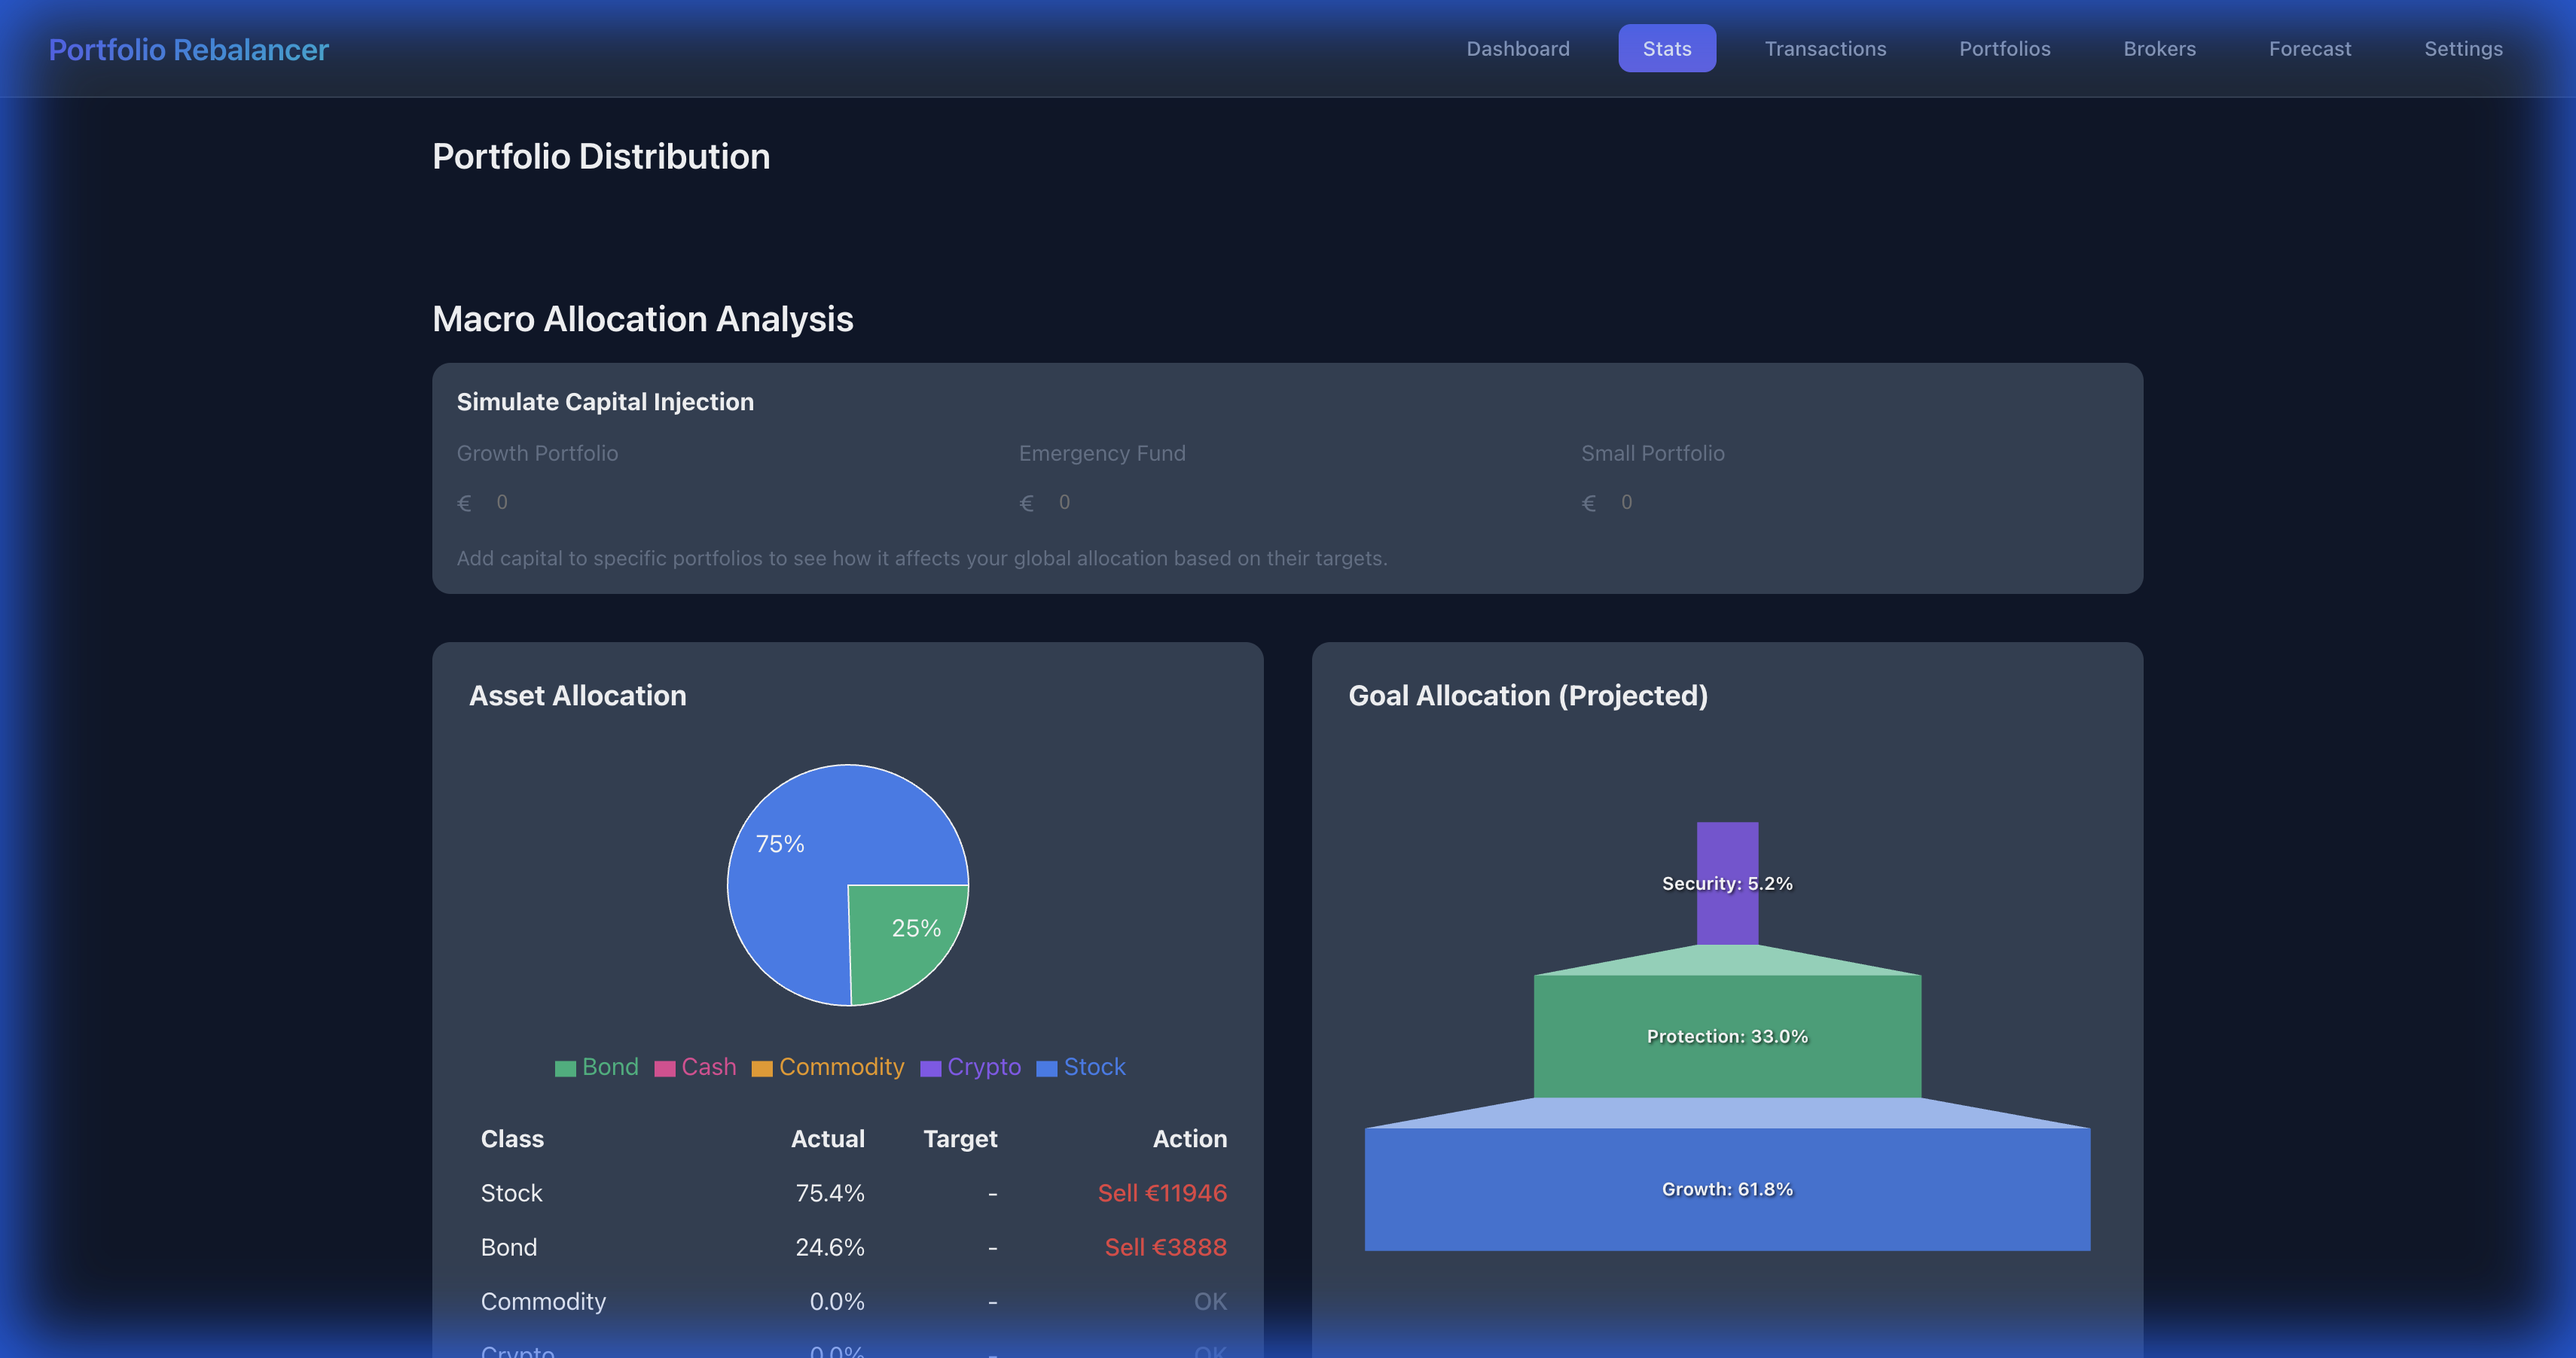
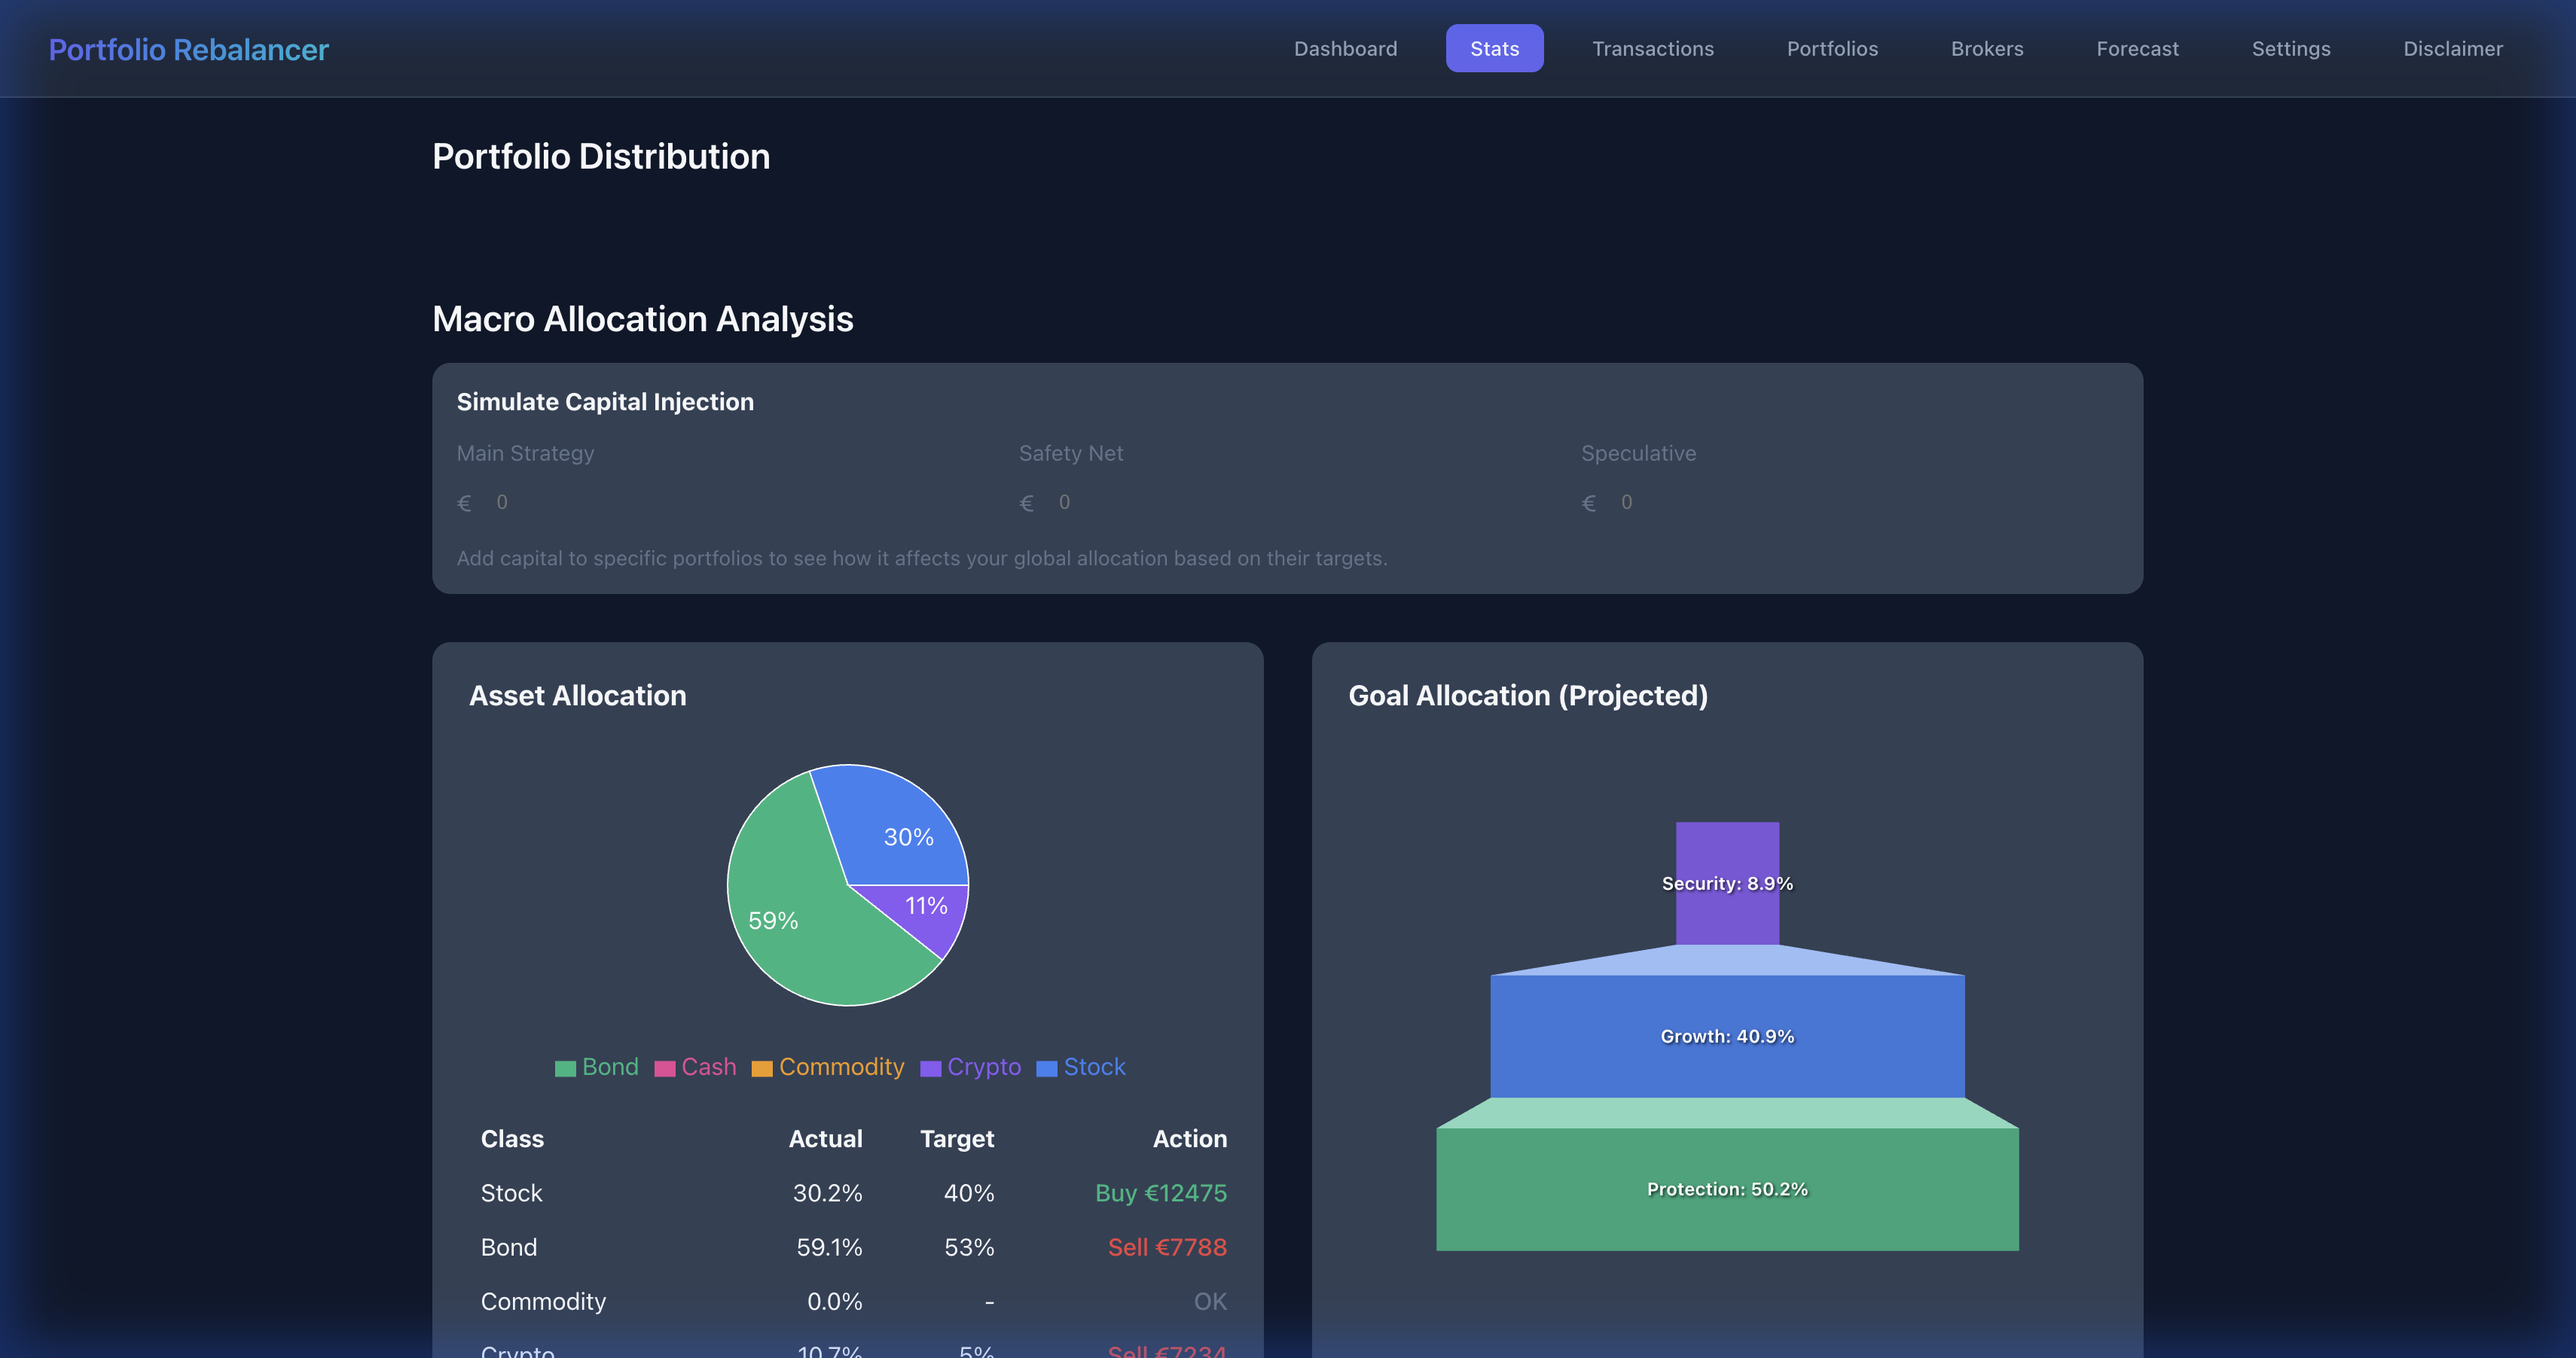
docs: Update README and screenshots to reflect new transaction forms, asset classification, rebalancing previews, and a dedicated disclaimer page.

diff --git a/README.md b/README.md
@@ -37,37 +37,42 @@ Portfolio Rebalancer is a React+Express application designed to help investors t
 - **Smart Rebalancing**: Calculates exactly how much to buy/sell to meet target allocations.
     -   **New Liquidity**: Option to inject fresh capital and simulate how it should be distributed.
     -   **Flexible Modes**: Choose between **Total Rebalancing** (Buy/Sell to perfect target) or **Buy Only** (allocate capital without selling existing positions).
+    -   **Post-Action Preview**: See projected allocation percentages after the suggested actions.
 - **Multi-Portfolio Support**: Create distinct portfolios (e.g., "Retirement", "Trading") and assigns transactions to them.
-    - **Per-Portfolio Allocations**: Define specific asset allocation targets for each portfolio independently in the Settings.
-    - **Portfolio Filtering**: Toggle the dashboard and transaction views to focus on a single portfolio or view the aggregate.
+    -   **Per-Portfolio Allocations**: Define specific asset allocation targets for each portfolio independently.
+    -   **Portfolio Filtering**: Toggle the dashboard and transaction views to focus on a single portfolio or view the aggregate.
 - **Transactions Management**:
-    - **Bulk Updates**: Select multiple transactions to update properties (like Portfolio) in one go via a bulk edit toolbar.
-    - **Excel Import**: Import transactions directly from `.xlsx` files (now supports "Broker" column).
-    - **Inline Editing**: Quickly edit transaction details without leaving the list.
-    - **Flexible Grouping**: Group transactions by Portfolio or Broker for easier analysis.
+    -   **Bulk Updates**: Select multiple transactions to update properties (like Portfolio) in one go via a bulk edit toolbar.
+    -   **Excel Import**: Import transactions directly from `.xlsx` files (supports "Broker" column).
+    -   **Smarter Forms**: Inline editing and modal-based creation for better UX.
+    -   **Flexible Grouping**: Group transactions by Portfolio or Broker for easier analysis.
 - **Broker Integration**:
-    - **Performance Tracking**: Dedicated dashboard section for Value, Cost, and Return per Broker.
-    - **Distribution Charts**: Visualize capital spread across different brokers.
-- **Asset Classification**: Hierarchical organization (Class -> Subclass) for better grouping and cleanup of unused assets (collapsed by default).
+    -   **Performance Tracking**: Dedicated dashboard section for Value, Cost, and Return per Broker.
+    -   **Distribution Charts**: Visualize capital spread across different brokers.
+- **Asset Classification**:
+    -   **Hierarchical Grouping**: Organize assets by Class -> Subclass for better groupings.
+    -   **Goal-Based Categories**: Assets are further classified into **Liquidity**, **Protection**, **Security**, and **Growth** for pyramid-style visualization.
+    -   **Unmanaged Assets**: Include assets in your portfolio (e.g. unmanaged legacy positions) without requiring transaction history.
 - **Multi-Source Price Scraping**:
-    - **JustETF**: For standard ETFs.
-    - **Borsa Italiana (MOT)**: Custom Puppeteer scraper for Italian BTPs/Bonds.
-    - **CPRAM**: Custom Puppeteer for active funds
+    -   **JustETF**: For standard ETFs.
+    -   **Borsa Italiana (MOT)**: Custom Puppeteer scraper for Italian BTPs/Bonds.
+    -   **CPRAM**: Custom Puppeteer for active funds.
 - **Liquidity Management**:
     -   **Broker Tracking**: dedicated view to manage cash/liquidity per broker.
     -   **Thresholds**: Set minimum liquidity comparisons (%) to ensure cash buffers.
 - **Financial Forecast**:
-    - **Projection**: Estimate net worth and liquidity over a custom time horizon.
-    - **Sustainability Checks**: Automatically flags plans as "OK", "Risky" (rule breach), or "Failed" (insolvency).
-    - **Custom Expenses**: Add one-off annual expenses to refine the simulation.
+    -   **Projection**: Estimate net worth and liquidity over a custom time horizon.
+    -   **Sustainability Checks**: Automatically flags plans as "OK", "Risky" (rule breach), or "Failed" (insolvency).
+    -   **Custom Expenses**: Add one-off annual expenses to refine the simulation.
 - **Visual Enhancements**:
     -   **Centered Pyramid**: "Invested Capital Distribution" now uses a centered funnel/pyramid visualization for immediate clarity.
     -   **Premium UI**: Optimized spacing, hidden axes, and centered labels.
 - **Unified Architecture**: Single Express server handling both API requests and serving the Vite frontend.
 - **Custom Labels**: Assign custom display names to assets.
 - **Data Management**:
-    - **Backup & Restore**: Export your entire portfolio data to a JSON file and restore it at any time (Settings page).
-    - **Safe Recovery**: Confirmation prompts to prevent accidental data overwrites during restore.
+    -   **Backup & Restore**: Export your entire portfolio data to a JSON file and restore it at any time.
+    -   **Safe Recovery**: Confirmation prompts to prevent accidental data overwrites during restore.
+-   **Disclaimer & Privacy**: dedicated page confirming local-only data storage and ownership.
 
 ## Application Overview
 
@@ -87,7 +92,12 @@ Comprehensive history of all your investment activities.
 - **Full History**: View all buys and sells.
 - **Broker Tracking**: See which broker executed each trade.
 - **Grouping**: Group transactions by Portfolio or Broker for easier analysis.
-- **Bulk Edit**: Update multiple transactions at once (e.g., assign broker, move portfolio).
+
+#### Edit & Import
+![Import Modal](screenshots/transactions_import_modal.png)
+![Inline Edit](screenshots/transaction_edit_inline.png)
+- **Inline Editing**: Quickly edit transaction details without leaving the list.
+- **Excel Import**: Quickly import history from your broker.
 
 ### Brokers
 Manage your brokers and liquidity.
@@ -99,7 +109,7 @@ Manage your brokers and liquidity.
 Project your financial future based on current assets, savings, and expenses.
 ![Forecast OK](screenshots/forecast_ok.png)
 - **Sustainability Analysis**: Checks if your plan survives your time horizon.
-    - **OK**: All expenses covered, liquidity maintained.
+    - **Sustainable**: All expenses covered, liquidity maintained.
     - **Risky**: Expenses covered, but rules (e.g., minimum liquidity) breached.
     ![Forecast Risky](screenshots/forecast_riskyplan.png)
     - **Failed**: Insolvency reached before the end of the horizon.
@@ -108,10 +118,10 @@ Project your financial future based on current assets, savings, and expenses.
 
 ### Statistics & Analysis
 Deep dive into your portfolio's composition and macro-economic exposure.
-![Stats Allocations Top](screenshots/stats_allocations.png)
+![Stats Allocations](screenshots/stats_allocations.png)
+![Stats Macro](screenshots/stats_macro.png)
 ![Stats Total Portfolios](screenshots/stats_total_portfolios.png)
-![Stats Growth Portfolio](screenshots/stats_growth_portfolio.png)
-- **Portfolio Pyramid**: Visual distribution of assets by risk/goal categories (Liquidity > Protection > Growth).
+- **Portfolio Pyramid**: Visual distribution of assets by risk/goal categories (Liquidity > Protection > Security > Growth).
 - **Macro Allocation**: Aggregate view of exposure to Stocks, Bonds, Crypto, etc. versus your defined targets.
 
 ### Portfolio Management
@@ -127,6 +137,12 @@ Manage target allocations, external data sources, and data safety.
 - **Asset Definitions**: Define asset classes (Stock, Bond, etc.) for each ISIN.
 - **Data Management**: Backup your entire database to JSON or restore from a previous backup.
 - **Mock Data**: Quickly load sample data to test the application features.
+
+### Disclaimer
+![Disclaimer Page](screenshots/disclaimer_page.png)
+- **Privacy Info**: Details on local storage and data usage (localStorage).
+- **Terms**: Non-commercial use disclaimer.
+- **Mock Data Ref**: Information on test data generation.
 
 ## Tech Stack
 - **Frontend**: React 19, TypeScript, Vite, Recharts
